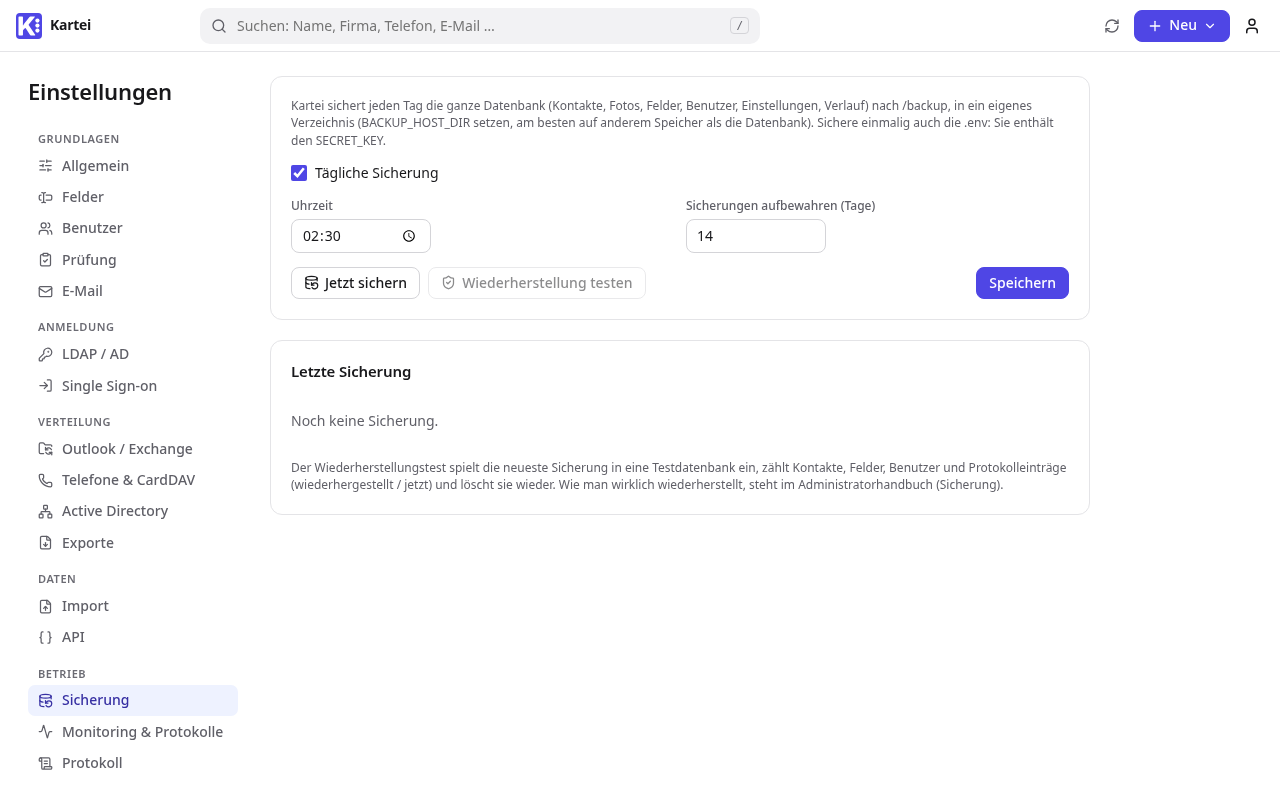
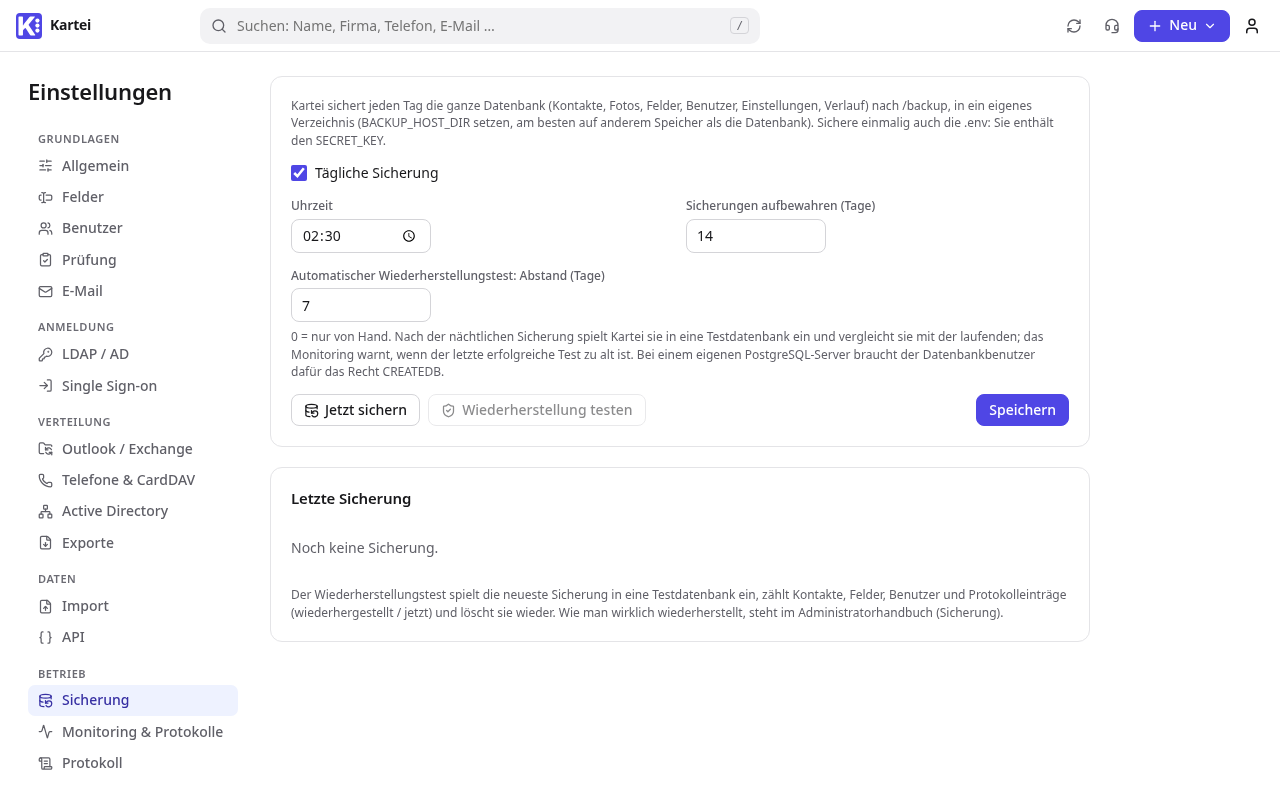
Backup: automatic restore test after the nightly backup, monitoring wants a recent successful one (#10)
The docs promised "daily backups with a restore test", but the restore
test only ran when someone clicked "Test restore", and monitoring only
warned after a failed test, never about a missing one.

- Settings.restore_test_days (migration 0022, default 7, 0 = on request
  only): after a successful scheduled backup, the exporter runs the
  restore test when the last one is that old (12 h slack, so a weekly
  test doesn't slip a day)
- restore_test_status keeps ok_at, the last successful test, also
  across failed ones
- monitoring: restore_test is warn when the last test failed, or, with
  the automatic test on, when the last successful one is older than the
  interval plus two days or never happened
- Settings → Backup: the interval with a hint (CREATEDB on your own
  PostgreSQL); admin manual de/en, screenshot; README and docs site now
  say "automatic weekly restore test"
- changes/auto-restore-test.added.md with the upgrade note for own
  PostgreSQL servers without CREATEDB

diff --git a/frontend/src/settings/Backup.svelte b/frontend/src/settings/Backup.svelte
@@ -34,7 +34,8 @@
   async function save() {
     errors = {}
     try {
-      s = await put('/api/admin/settings', { backup_enabled: s!.backup_enabled, backup_time: s!.backup_time, backup_keep_days: s!.backup_keep_days })
+      s = await put('/api/admin/settings', { backup_enabled: s!.backup_enabled, backup_time: s!.backup_time, backup_keep_days: s!.backup_keep_days,
+                                                  restore_test_days: s!.restore_test_days })
       toast(t('settings.saved'))
       return true
     } catch (e) {
@@ -69,6 +70,12 @@
           <input id="bk" class="input narrow" type="number" min="1" max="365" bind:value={s.backup_keep_days} />
           {#if errors.backup_keep_days}<div class="error-text">{terr(errors.backup_keep_days)}</div>{/if}
         </div>
+      </div>
+      <div class="field">
+        <label class="label" for="rd">{t('backup.restore_days')}</label>
+        <input id="rd" class="input narrow" type="number" min="0" max="365" bind:value={s.restore_test_days} aria-describedby="rd-hint" />
+        {#if errors.restore_test_days}<div class="error-text">{terr(errors.restore_test_days)}</div>{/if}
+        <p class="hint" id="rd-hint">{t('backup.restore_days_hint')}</p>
       </div>
       <div class="actions">
         <button type="button" class="btn" class:spin={pending.backup} disabled={!!pending.backup} onclick={() => request('run')}>
@@ -122,6 +129,7 @@
   h2 { font-size: 15px; margin: 0; }
   .row2 { display: grid; grid-template-columns: 1fr 1fr; gap: 12px; }
   .narrow { width: 140px; }
+  .field .hint { margin-top: 6px; }
   .check { display: flex; align-items: center; gap: 8px; cursor: pointer; }
   .actions { display: flex; gap: 8px; flex-wrap: wrap; }
   .spacer { flex: 1; }

diff --git a/frontend/src/i18n/de.ts b/frontend/src/i18n/de.ts
@@ -1367,6 +1367,8 @@ export default {
   'backup.enabled': "Tägliche Sicherung",
   'backup.time': "Uhrzeit",
   'backup.keep': "Sicherungen aufbewahren (Tage)",
+  'backup.restore_days': "Automatischer Wiederherstellungstest: Abstand (Tage)",
+  'backup.restore_days_hint': "0 = nur von Hand. Nach der nächtlichen Sicherung spielt Kartei sie in eine Testdatenbank ein und vergleicht sie mit der laufenden; das Monitoring warnt, wenn der letzte erfolgreiche Test zu alt ist. Bei einem eigenen PostgreSQL-Server braucht der Datenbankbenutzer dafür das Recht CREATEDB.",
   'backup.run': "Jetzt sichern",
   'backup.restore_test': "Wiederherstellung testen",
   'backup.last': "Letzte Sicherung",

diff --git a/frontend/src/i18n/en.ts b/frontend/src/i18n/en.ts
@@ -1367,6 +1367,8 @@ export default {
   'backup.enabled': "Daily backup",
   'backup.time': "Time",
   'backup.keep': "Keep backups (days)",
+  'backup.restore_days': "Automatic restore test: interval (days)",
+  'backup.restore_days_hint': "0 = on request only. After the nightly backup, Kartei restores it into a scratch database and compares it with the live one; monitoring warns when the last successful test is too old. With your own PostgreSQL server, the database user needs the CREATEDB privilege for this.",
   'backup.run': "Back up now",
   'backup.restore_test': "Test restore",
   'backup.last': "Last backup",

diff --git a/backend/kartei/test_backup.py b/backend/kartei/test_backup.py
@@ -2,7 +2,7 @@ import os
 import shutil
 import tempfile
 import time
-from datetime import datetime
+from datetime import datetime, timedelta
 from pathlib import Path
 from unittest import mock
 
@@ -90,3 +90,62 @@ class BackupTests(TempBackupDir, ApiTestBase):
         self.assertTrue(self.j("post", "/api/admin/backup/restore-test")["restore_test_requested"])
         self.as_("maintainer")
         self.j("post", "/api/admin/backup/run", status=403)
+
+
+class AutoRestoreTestTests(TempBackupDir, ApiTestBase):
+    """the restore test runs on its own after the nightly backup every restore_test_days days"""
+    def test_due(self):
+        s = Settings.get()
+        now = timezone.now()
+        ago = lambda **kw: {"at": (now - timedelta(**kw)).isoformat(), "ok": True}
+        self.assertEqual(s.restore_test_days, 7)  # on by default
+        self.assertTrue(backup.restore_test_due(s, now))  # never tested
+        s.restore_test_status = ago(days=6)
+        self.assertFalse(backup.restore_test_due(s, now))
+        s.restore_test_status = ago(days=6, hours=13)  # last week's ran a little later: still this week
+        self.assertTrue(backup.restore_test_due(s, now))
+        s.restore_test_days = 0  # on request only
+        self.assertFalse(backup.restore_test_due(s, now))
+        s.restore_test_days, s.backup_enabled = 7, False
+        self.assertFalse(backup.restore_test_due(s, now))
+
+    def test_runs_after_a_successful_scheduled_backup(self):
+        with mock.patch.object(backup, "due", return_value=True), \
+             mock.patch.object(backup, "run", return_value={"ok": True}), \
+             mock.patch.object(backup, "restore_test", return_value={"ok": True}) as rt:
+            self.assertEqual(backup.scheduled(Settings.get()), {"backup": {"ok": True}, "restore_test": {"ok": True}})
+            Settings.objects.update(restore_test_status={"at": timezone.now().isoformat(), "ok": True})
+            self.assertEqual(backup.scheduled(Settings.get()), {"ok": True})  # tested recently: backup only
+        self.assertEqual(rt.call_count, 1)
+        Settings.objects.update(restore_test_status={})
+        with mock.patch.object(backup, "due", return_value=True), \
+             mock.patch.object(backup, "run", return_value={"error": "disk full"}), \
+             mock.patch.object(backup, "restore_test") as rt:
+            backup.scheduled(Settings.get())  # nothing new to test
+        rt.assert_not_called()
+        with mock.patch.object(backup, "due", return_value=False), mock.patch.object(backup, "run") as run:
+            self.assertIsNone(backup.scheduled(Settings.get()))
+        run.assert_not_called()
+
+    def test_monitoring_wants_a_recent_successful_test(self):
+        check = lambda: {c["name"]: c for c in monitoring.checks(Settings.get())}.get("restore_test")
+        self.assertEqual((check()["status"], check()["detail"]), ("warn", "never run"))
+        ok_at = timezone.now() - timedelta(days=1)
+        Settings.objects.update(restore_test_status={"at": ok_at.isoformat(), "ok": True, "ok_at": ok_at.isoformat()})
+        self.assertEqual(check()["status"], "ok")
+        # a failed test keeps the time of the last successful one; the failure itself is the warning
+        Settings.objects.update(backup_status={})
+        rt = backup.restore_test()
+        self.assertEqual((rt["error"], rt["ok_at"]), ("no backup yet", ok_at.isoformat()))
+        self.assertEqual((check()["status"], check()["detail"]), ("warn", "no backup yet"))
+        old = (timezone.now() - timedelta(days=10)).isoformat()
+        Settings.objects.update(restore_test_status={"at": old, "ok": True})  # from before ok_at existed
+        self.assertEqual((check()["status"], check()["detail"]), ("warn", "last successful restore test too old"))
+        Settings.objects.update(restore_test_days=0)  # on request only: no check unless one failed
+        self.assertIsNone(check())
+
+    def test_setting(self):
+        self.as_("admin")
+        r = self.j("put", "/api/admin/settings", {"restore_test_days": 366}, status=400)
+        self.assertEqual(r["fields"], {"restore_test_days": "invalid_number"})
+        self.assertEqual(self.j("put", "/api/admin/settings", {"restore_test_days": 0})["restore_test_days"], 0)

diff --git a/backend/kartei/backup.py b/backend/kartei/backup.py
@@ -3,7 +3,8 @@
 PostgreSQL: pg_dump in its custom format (compressed; restore with pg_restore). SQLite (development): the online
 backup API. The exporter runs a backup daily at the configured time and on request ("back up now"), keeps the files
 for the configured number of days (always at least the newest), and checks every file it writes (pg_restore --list).
-A restore test, on request, restores the newest file into a scratch database and counts what came back.
+A restore test restores the newest file into a scratch database and counts what came back: after the nightly
+backup every restore_test_days days, and on request.
 """
 import os
 import sqlite3
@@ -92,6 +93,26 @@ def due(s, now=None):
     return not last or datetime.fromisoformat(last) < slot
 
 
+def restore_test_due(s, now=None):
+    """After the nightly backup: is the automatic restore test due? Half a day of slack, so a weekly test doesn't
+    slip a day because last week's ran a few minutes later."""
+    if not s.backup_enabled or not s.restore_test_days:
+        return False
+    last = (s.restore_test_status or {}).get("at")
+    now = now or timezone.now()
+    return not last or now - datetime.fromisoformat(last) >= timedelta(days=s.restore_test_days) - timedelta(hours=12)
+
+
+def scheduled(s):
+    """Exporter tick: the daily backup when it's due, then the restore test when that is due. None = nothing ran."""
+    if not due(s):
+        return None
+    st = run()
+    if st.get("ok") and restore_test_due(Settings.get()):
+        return {"backup": st, "restore_test": restore_test()}
+    return st
+
+
 def _dump(path):
     tmp = path.with_name(path.name + ".part")
     try:
@@ -155,7 +176,10 @@ def restore_test():
     """Restore the newest backup into a scratch database, count the main tables there and in the live database,
     drop the scratch database. Returns the status, also stored in Settings.restore_test_status."""
     Settings.objects.filter(pk=1).update(restore_test_requested=None)
+    prev = Settings.get().restore_test_status or {}
     status = {"at": timezone.now().isoformat()}
+    if ok_at := prev.get("ok_at") or (prev.get("ok") and prev.get("at")):
+        status["ok_at"] = ok_at  # last successful test, kept when this one fails
     newest = files()[:1]
     try:
         if not newest:
@@ -176,7 +200,7 @@ def restore_test():
             live = _count(c)
         if not sum(restored.values()) and sum(live.values()):
             raise BackupError("the restored database is empty")
-        status |= {"ok": True, "tables": {t: [restored[t], live[t]] for t in TABLES}}
+        status |= {"ok": True, "ok_at": status["at"], "tables": {t: [restored[t], live[t]] for t in TABLES}}
     except (BackupError, OSError, sqlite3.Error) as e:
         status |= {"error": str(e)[:300]}
     Settings.objects.filter(pk=1).update(restore_test_status=status)

diff --git a/backend/kartei/api.py b/backend/kartei/api.py
@@ -1742,7 +1742,7 @@ SETTINGS_ATTRS = ["default_language", "totp_required", "base_url", "trash_days",
                   "ad_enabled", "ad_ou", "ad_bind_dn", "ad_kinds", "ad_columns", "ad_max_shrink_percent"]
 SETTINGS_ATTRS += ["phone_normalize", "phone_country_code", "tel_outside", "tel_plus"]  # quality, tel: links
 SETTINGS_ATTRS += ["map_url", "ldap_users_max_deactivate_percent", "print_logo_mode"]
-SETTINGS_ATTRS += ["backup_enabled", "backup_time", "backup_keep_days"]
+SETTINGS_ATTRS += ["backup_enabled", "backup_time", "backup_keep_days", "restore_test_days"]
 SETTINGS_ATTRS += ["retention_months", "phonebook_enabled", "phonebook_username", "phonebook_allowlist", "audit_signin_days", "monitoring_allowlist", "syslog_enabled", "syslog_host", "syslog_port",
                    "syslog_protocol", "syslog_ca_cert", "syslog_tls_verify", "syslog_facility", "syslog_content"]
 SETTINGS_ATTRS += ["mail_templates", "mail_transport", "mail_graph_sender"]
@@ -1825,6 +1825,8 @@ def settings_put(request):
         errors["backup_time"] = "invalid"
     if not isinstance(s.backup_keep_days, int) or not 1 <= s.backup_keep_days <= 365:
         errors["backup_keep_days"] = "invalid_number"
+    if not isinstance(s.restore_test_days, int) or not 0 <= s.restore_test_days <= 365:
+        errors["restore_test_days"] = "invalid_number"
     if not isinstance(s.ldap_users_max_deactivate_percent, int) or not 0 <= s.ldap_users_max_deactivate_percent <= 100:
         errors["ldap_users_max_deactivate_percent"] = "invalid_number"
     for a in ("trash_days", "export_interval_minutes", "audit_signin_days", "retention_months"):

diff --git a/backend/kartei/monitoring.py b/backend/kartei/monitoring.py
@@ -165,8 +165,14 @@ def checks(s):
         state = "crit" if st.get("error") or age is None or age > 50 * 3600 else "warn" if age > 26 * 3600 else "ok"
         out.append({"name": "backup", "status": state, "age_s": age,
                     "detail": st.get("error") or ("never run" if age is None else "last backup too old" if state != "ok" else "")})
-    if (rt := s.restore_test_status or {}).get("error"):
+    rt = s.restore_test_status or {}
+    if rt.get("error"):
         out.append({"name": "restore_test", "status": "warn", "age_s": _age(rt.get("at")), "detail": rt["error"][:300]})
+    elif s.backup_enabled and s.restore_test_days:  # automatic: a test must have succeeded recently, not just not failed
+        ok_age = _age(rt.get("ok_at") or (rt.get("ok") and rt.get("at")) or None)
+        late = ok_age is None or ok_age > (s.restore_test_days + 2) * 86400
+        out.append({"name": "restore_test", "status": "warn" if late else "ok", "age_s": ok_age,
+                    "detail": ("never run" if ok_age is None else "last successful restore test too old") if late else ""})
     if s.syslog_enabled:
         st = s.syslog_status or {}
         failing = st.get("error") and (_age(st.get("error_at")) or 0) < 3600

diff --git a/backend/kartei/models.py b/backend/kartei/models.py
@@ -95,6 +95,7 @@ class Settings(models.Model):
     backup_keep_days = models.PositiveSmallIntegerField(default=14)
     backup_status = models.JSONField(default=dict, blank=True)  # last run, written by the exporter
     backup_requested = models.DateTimeField(null=True, blank=True)  # "back up now"; the exporter polls it
+    restore_test_days = models.PositiveSmallIntegerField(default=7)  # restore test after the nightly backup every n days; 0 = on request only
     restore_test_status = models.JSONField(default=dict, blank=True)
     restore_test_requested = models.DateTimeField(null=True, blank=True)
     audit_signin_days = models.PositiveIntegerField(default=90)  # sign-in entries (with IPs) kept this long; 0 = forever

diff --git a/backend/kartei/management/commands/export_loop.py b/backend/kartei/management/commands/export_loop.py
@@ -50,7 +50,7 @@ STEPS = [
     ("ldap user import", lambda s: ldapusers.due(s) and log.info("ldap user import: %s", ldapusers.run())),
     ("ad sync", _logged("ad sync", adsync.run)),
     ("carddav relay push", _logged("carddav relay push", relaypush.run)),
-    ("backup", lambda s: backup.due(s) and log.info("backup: %s", backup.run())),
+    ("backup", lambda s: (r := backup.scheduled(s)) and log.info("backup: %s", r)),
     ("quality snapshot", _logged("quality snapshot", quality.take_snapshot)),
     ("webhooks", lambda s: (webhooks.deliver_due(), webhooks.cleanup())),
     ("web push", lambda s: push.deliver_due()),

diff --git a/backend/kartei/migrations/0022_restore_test_days.py b/backend/kartei/migrations/0022_restore_test_days.py
@@ -1,0 +1,18 @@
+# Generated by Django 5.2.19 on 2026-11-27 21:19
+
+from django.db import migrations, models
+
+
+class Migration(migrations.Migration):
+
+    dependencies = [
+        ('kartei', '0021_tel_links'),
+    ]
+
+    operations = [
+        migrations.AddField(
+            model_name='settings',
+            name='restore_test_days',
+            field=models.PositiveSmallIntegerField(default=7),
+        ),
+    ]

diff --git a/manuals/de/admin.md b/manuals/de/admin.md
@@ -289,8 +289,8 @@ Kartei sichert seine Datenbank selbst: jeden Tag zur Uhrzeit unter *Einstellunge
 ![Bereich Sicherung](../img/de/settings-backup.png)
 
 - **Wohin:** Der `exporter` schreibt die Dateien (`kartei-<Datum>-<Uhrzeit>.dump`, das komprimierte Custom-Format von PostgreSQL) nach `/backup`. Standardmäßig ist das das Docker-Volume `backups`. Das funktioniert ohne weitere Einrichtung, liegt aber auf derselben Platte wie die Datenbank. Besser: ein Verzeichnis auf anderem Speicher, z. B. ein NAS-Mount, als `BACKUP_HOST_DIR` in der `.env` (Eigentümer uid 1000: `chown 1000 /mnt/backup/kartei`). Die Sicherungsdateien sind nur für diesen Eigentümer lesbar (0600), denn sie enthalten Passwort-Hashes und Sitzungen. Nimm nicht die Export-Freigabe: Wer Exporte lesen darf, bekäme die ganze Datenbank.
-- **Geprüft:** Jede Datei wird zurückgelesen (`pg_restore --list`), bevor sie zählt. *Wiederherstellung testen* spielt die neueste Sicherung in eine Testdatenbank (`kartei_restore_test`) ein, zählt Kontakte, Felder, Benutzer und Protokolleinträge, vergleicht sie mit der laufenden Datenbank und löscht die Testdatenbank wieder. Bei einem eigenen PostgreSQL-Server braucht der Datenbankbenutzer dafür das Recht, Datenbanken anzulegen (`CREATEDB`).
-- **Überwacht:** Der [Monitoring-Status](#monitoring) meldet `backup` als *warn* nach 26 Stunden ohne Sicherung und als *crit* nach 50 Stunden oder bei einem Fehler, `restore_test` als *warn*, wenn der letzte Test fehlgeschlagen ist.
+- **Geprüft:** Jede Datei wird zurückgelesen (`pg_restore --list`), bevor sie zählt. Der Wiederherstellungstest spielt die neueste Sicherung in eine Testdatenbank (`kartei_restore_test`) ein, zählt Kontakte, Felder, Benutzer und Protokolleinträge, vergleicht sie mit der laufenden Datenbank und löscht die Testdatenbank wieder. Er läuft automatisch direkt nach der nächtlichen Sicherung, im Abstand von *Automatischer Wiederherstellungstest: Abstand (Tage)* (Standard 7; 0 = nur von Hand), und jederzeit mit *Wiederherstellung testen*. Bei einem eigenen PostgreSQL-Server braucht der Datenbankbenutzer dafür das Recht, Datenbanken anzulegen (`CREATEDB`); ohne dieses Recht schlägt der Test fehl und das Monitoring warnt. Gib das Recht, oder stell den Abstand auf 0 und teste die Sicherungen mit euren eigenen Werkzeugen.
+- **Überwacht:** Der [Monitoring-Status](#monitoring) meldet `backup` als *warn* nach 26 Stunden ohne Sicherung und als *crit* nach 50 Stunden oder bei einem Fehler, `restore_test` als *warn*, wenn der letzte Test fehlgeschlagen ist oder der letzte erfolgreiche länger als den eingestellten Abstand plus zwei Tage zurückliegt (auch wenn es noch nie einen gab).
 - **Jetzt sichern** schreibt sofort eine Sicherung (auch bei ausgeschalteter täglicher Sicherung).
 - **Sichere einmalig auch die `.env`** (sie enthält den `SECRET_KEY`) und kopiere das Sicherungsverzeichnis vom Host weg, falls es nicht ohnehin auf anderem Speicher liegt.
 
